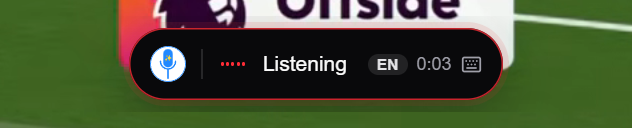
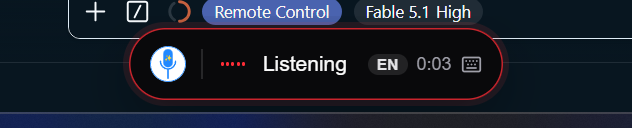
Refresh meter screenshots and re-run matrix rows c/e/h/i
Screenshots 15-17 re-captured with the dB meter curve (raw peaks 0,
0.2, 0.9). Rows c, e (short form), h and i re-run against the
closeout build: all pass. Row c is now checked with a Win32 z-order
walk (pill visible-index 3, TopMost stand-in 4) plus a screenshot,
since the Prompt 0 z-order log is gone.

diff --git a/docs/dictation-indicator-tests.md b/docs/dictation-indicator-tests.md
@@ -41,13 +41,13 @@ pnpm exec tauri dev
 |---|------|-------|-------------------------|-------|----------|-------------|
 | a | Push-to-talk phrase under 1 s | Push-to-talk mode. Focus Word. Press F9, say one word, release within ~0.8 s. Repeat 5×. | "Listening…" is shown only after `start_record resolved`; with `sinceDownMs` in the hundreds the key is often already released, so the visible sequence is "Transcribing…" → "Inserted"/"Copied" (1.5 s) or nothing registers. Log shows `hotkey down accepted` → `get_audio_devices resolved` → `start_record resolved` → `showIndicator recording` → `hotkey up`, with `sinceDownMs` on `start_record resolved`. | 2.2 | Owner, 2026-09-05, after Prompts 1–4, toggle mode: "Listening" with the "F9 to stop" hint appeared on the key press and the hint faded after about 2 s; EN badge and red ring shown; transcribing and inserted colours correct; Arabic run also correct. `sinceDownMs` not read. | — |
 | b | No default mic | Unplug / power off the mic (or Settings → Sound → disable the input device) so Windows has no default input. Press F9. Then re-enable, and repeat with the Bluetooth headset switching profiles (start speaking as it connects). | Nothing on screen, no notification. Main-window console shows `start FAILED silently: no default input device` (devices list without an `isDefault && isInput` entry) or `start FAILED silently: start_record threw` with the error. No Rust `[indicator] show requested` line at all. | 2.1 | Not run. Fix landed in `91c6f05`; the cpal error-text classifier is unverified against a real device failure. | — |
-| c | Task Manager always-on-top over the pill | Task Manager → Options → Always on top. Drag it so it covers the bottom-centre of the monitor under the mouse. Click Task Manager once (raises it). Press F9 and dictate. | Rust `show/after show()` says `visible=Ok(true)` with the expected position, but the pill is not visible on screen. The `z-order:` line names Task Manager (`title="Task Manager" class="TaskManagerWindow"`) as the nearest visible window above the pill. Then close Task Manager: pill is visible on the next dictation. | 2.3 | Reproduced 2026-09-04 with a TopMost stand-in (see below). Re-run after `4fdb773`: only system helper windows above the pill; stand-in no longer covers it. | see below |
+| c | Task Manager always-on-top over the pill | Task Manager → Options → Always on top. Drag it so it covers the bottom-centre of the monitor under the mouse. Click Task Manager once (raises it). Press F9 and dictate. | Rust `show/after show()` says `visible=Ok(true)` with the expected position, but the pill is not visible on screen. The `z-order:` line names Task Manager (`title="Task Manager" class="TaskManagerWindow"`) as the nearest visible window above the pill. Then close Task Manager: pill is visible on the next dictation. | 2.3 | Reproduced 2026-09-04 with a TopMost stand-in (see below). Re-run after `4fdb773`: only system helper windows above the pill; stand-in no longer covers it. **Closeout build (2026-09-05): pass** — pill shown at (1420,1272) 600×96 while the stand-in was up; Win32 z-order walk: pill visible-index 3 (`Tauri Window`), stand-in index 4, screenshot shows the pill drawn over the orange stand-in. | see below |
 | d | Two monitors, different scale, mouse on the other one | Set monitor A to 100 %, B to 150 % (Settings → Display). Focus Word on A. Park the mouse on B. Press F9. Then swap (Word on B, mouse on A). | Pill appears on **B** (mouse monitor), not A where you type: `position_window: cursor=… monitor(name=B, scale=1.5)`. Check `show/after set_size` vs `show/after show()`: `outer_size` should be 280×64 × B's scale (420×96); if it is 280×64 × A's scale (280×64) the label is clipped — `window_monitor(scale)` and `cursor_monitor(scale)` differ in the snapshot lines. | 2.4 | Not testable: one monitor on this machine. Fix (foreground-window monitor, position before physical size) landed in `4fdb773` with unit tests. | — |
-| e | Main window in tray for 6 minutes | Close the main window (goes to tray). Keep DevTools attached (open it first, then close the window — the DevTools window stays). Wait ≥ 6 min. Enable live dictation (type mode), focus Word, press F9 and dictate ~10 s in toggle mode, press F9 again. | Note `vis=` on every frontend line while hidden. If it says `hidden`: `live-dictation interval fired` shows `sinceLastMs` ≫ 1500 (1000 alignment at first, 60000 after 5 min) and `hide timer fired` shows `lateMs` in the hundreds or more, so "Inserted" lingers. If it says `visible`: timers fire on time and 2.5 is ruled out on this machine. | 2.5 | Refuted 2026-09-04: `visibilityState` stayed "visible", 272 timers within 1500–1516 ms. The window re-appearing during the wait was the owner opening it. | see below |
+| e | Main window in tray for 6 minutes | Close the main window (goes to tray). Keep DevTools attached (open it first, then close the window — the DevTools window stays). Wait ≥ 6 min. Enable live dictation (type mode), focus Word, press F9 and dictate ~10 s in toggle mode, press F9 again. | Note `vis=` on every frontend line while hidden. If it says `hidden`: `live-dictation interval fired` shows `sinceLastMs` ≫ 1500 (1000 alignment at first, 60000 after 5 min) and `hide timer fired` shows `lateMs` in the hundreds or more, so "Inserted" lingers. If it says `visible`: timers fire on time and 2.5 is ruled out on this machine. | 2.5 | Refuted 2026-09-04: `visibilityState` stayed "visible", 272 timers within 1500–1516 ms. The window re-appearing during the wait was the owner opening it. **Closeout build (2026-09-05, short form): same** — window closed to tray (`isVisible=false`), `visibilityState` "visible", `hidden=false`, four chained 1500 ms timers at 1516 / 1515 / 1514 / 1501 ms. | see below |
 | f | Fullscreen game / video | Start an exclusive-fullscreen game (or a YouTube video in browser fullscreen as the borderless control). Press F9 and dictate. | Exclusive fullscreen: Rust reports `visible=Ok(true)` but nothing is drawn over the game — expected, cannot be fixed. Borderless/browser fullscreen: pill should be visible; if not, the `z-order:` line names what is above. | 2.3 (documented limitation) | Not run. | — |
 | g | Hotkey pressed while "Transcribing…" | Dictate a long phrase (~10 s, cold model so transcription takes a few seconds). The moment "Transcribing…" appears, press F9 again (push-to-talk: press and release; toggle: press once). | Press is dropped silently: `hotkey event received` followed by `hotkey down DROPPED by busy guard` with `stopping: true`. Pill keeps showing "Transcribing…" then "Inserted"/"Copied"; no new session, no feedback that the press was ignored. | 2.1 (third path) | Not run. Fix ("Still transcribing — wait" for 1 s) landed in `91c6f05`. | — |
-| h | Indicator re-enabled in Settings, then dictate immediately | Settings → Dictation → indicator off, then on again (window is re-created). Press F9 within a second. | Pill webview console: `mounted; fetching initial state` … `listen registered`. If a `[indicator] show` fires between those two lines and before `initial state fetch resolved`, the window shows a stale or empty state until the next event. **Blocked by row (i) on Windows — the re-enable never completes.** | 2.6 | Fix (listen before fetch) landed in `4fdb773`. Re-enable now completes, so the row is runnable; not yet run with a dictation inside the first second. | — |
-| i | Indicator re-enabled in Settings (Windows) | Settings → Dictation → indicator off, then on again. Then try any other action in the app (open a settings tab, press F9). | Nothing in the app responds any more: every Tauri command hangs, the app has to be killed. `set_dictation_indicator_enabled(true)` is a *synchronous* command that calls `WebviewWindowBuilder::build()`; tauri documents that this deadlocks on Windows from a sync command. Same code path as the lazy create inside `show_dictation_indicator` (indicator enabled while the window is missing). | new — 2.7 | Reproduced twice 2026-09-04. After `4fdb773` (async commands): off/on twice via the same command returned in 13–83 ms, app responsive, pill returned. Settings switch click itself not exercised. | see below |
+| h | Indicator re-enabled in Settings, then dictate immediately | Settings → Dictation → indicator off, then on again (window is re-created). Press F9 within a second. | Pill webview console: `mounted; fetching initial state` … `listen registered`. If a `[indicator] show` fires between those two lines and before `initial state fetch resolved`, the window shows a stale or empty state until the next event. **Blocked by row (i) on Windows — the re-enable never completes.** | 2.6 | Fix (listen before fetch) landed in `4fdb773`. **Closeout build (2026-09-05): pass** — disable, re-enable (69.6 ms), then `show_dictation_indicator(recording)` 5.7 ms later; 1.5 s on, the freshly created pill rendered "Listening / release to finish / EN / 0:01". Driven through the same commands the Settings switch and the hotkey call, not a real key press. | — |
+| i | Indicator re-enabled in Settings (Windows) | Settings → Dictation → indicator off, then on again. Then try any other action in the app (open a settings tab, press F9). | Nothing in the app responds any more: every Tauri command hangs, the app has to be killed. `set_dictation_indicator_enabled(true)` is a *synchronous* command that calls `WebviewWindowBuilder::build()`; tauri documents that this deadlocks on Windows from a sync command. Same code path as the lazy create inside `show_dictation_indicator` (indicator enabled while the window is missing). | new — 2.7 | Reproduced twice 2026-09-04. After `4fdb773` (async commands): off/on twice via the same command returned in 13–83 ms, app responsive, pill returned. **Closeout build (2026-09-05): pass** — off 14.6 / on 70.9 / off 11.0 / on 65.6 ms, IPC answered in 2.4 ms afterwards, indicator enabled. Settings switch click itself not exercised. | see below |
 
 ### Prompt 5 closeout, 2026-09-05
 
@@ -55,16 +55,12 @@ pnpm exec tauri dev
   need a microphone, a second monitor or a fullscreen game and were not
   re-run by the automation. Row f is documented as a known limitation in
   [debug.md](debug.md) (exclusive fullscreen hides every topmost window).
-- Rows c, h and i were last verified through the UI's own commands on the
-  `4fdb773` build (see the observed column and the Prompt 0 section). Row e
-  was measured on 2026-09-04. A re-run against the final closeout build was
-  **not possible in the closeout session**: the dev server on port 1420 was
-  held by the owner's own `tauri dev` instance (started 01:10, no
-  remote-debugging port), a second instance is absorbed by the
-  single-instance plugin, and stopping the owner's instance was not the
-  automation's call. Re-run c, e, h, i once that instance is closed:
-  `PYTHONIOENCODING=utf-8 uv run --with websockets rerun-rows.py` with the
-  scratch scripts, or by hand per the steps column.
+- Rows c, e (short form), h and i were re-run against the closeout build on
+  2026-09-05 after the owner's own `tauri dev` instance (which had held port
+  1420 without a debug port) was closed; all four pass — details in the
+  observed column. Without the Prompt 0 z-order log, row c now uses a Win32
+  `GetTopWindow`/`GW_HWNDNEXT` walk over visible top-level windows plus a
+  screenshot of the pill over the stand-in.
 - Instrumentation trimmed to one info line per show and per hide, e.g.
   `[indicator] t=68394ms show: session=0 status=error visible=Some(true)
   position=Some((1420, 1272)) size=Some((600, 96))` (taken from the owner's
